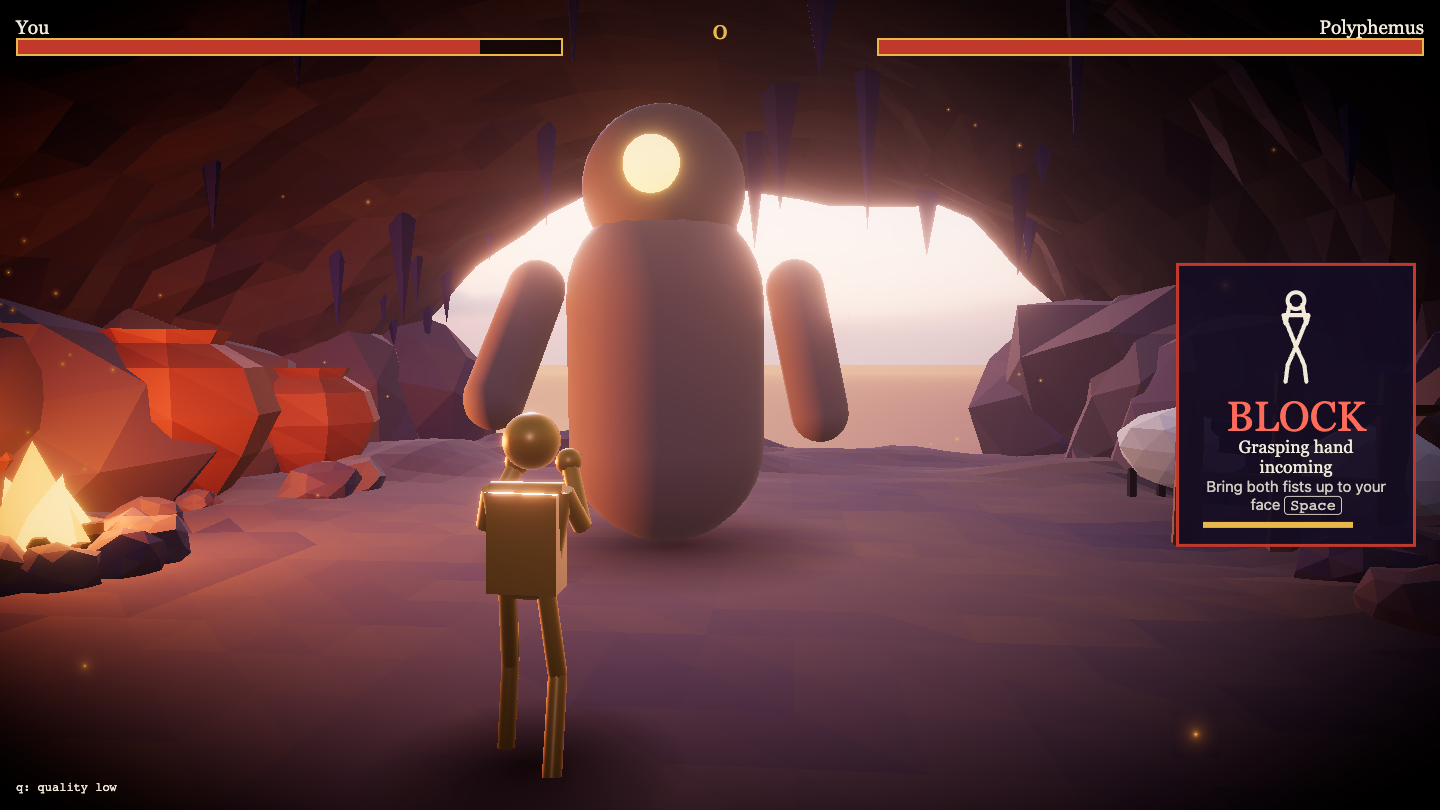
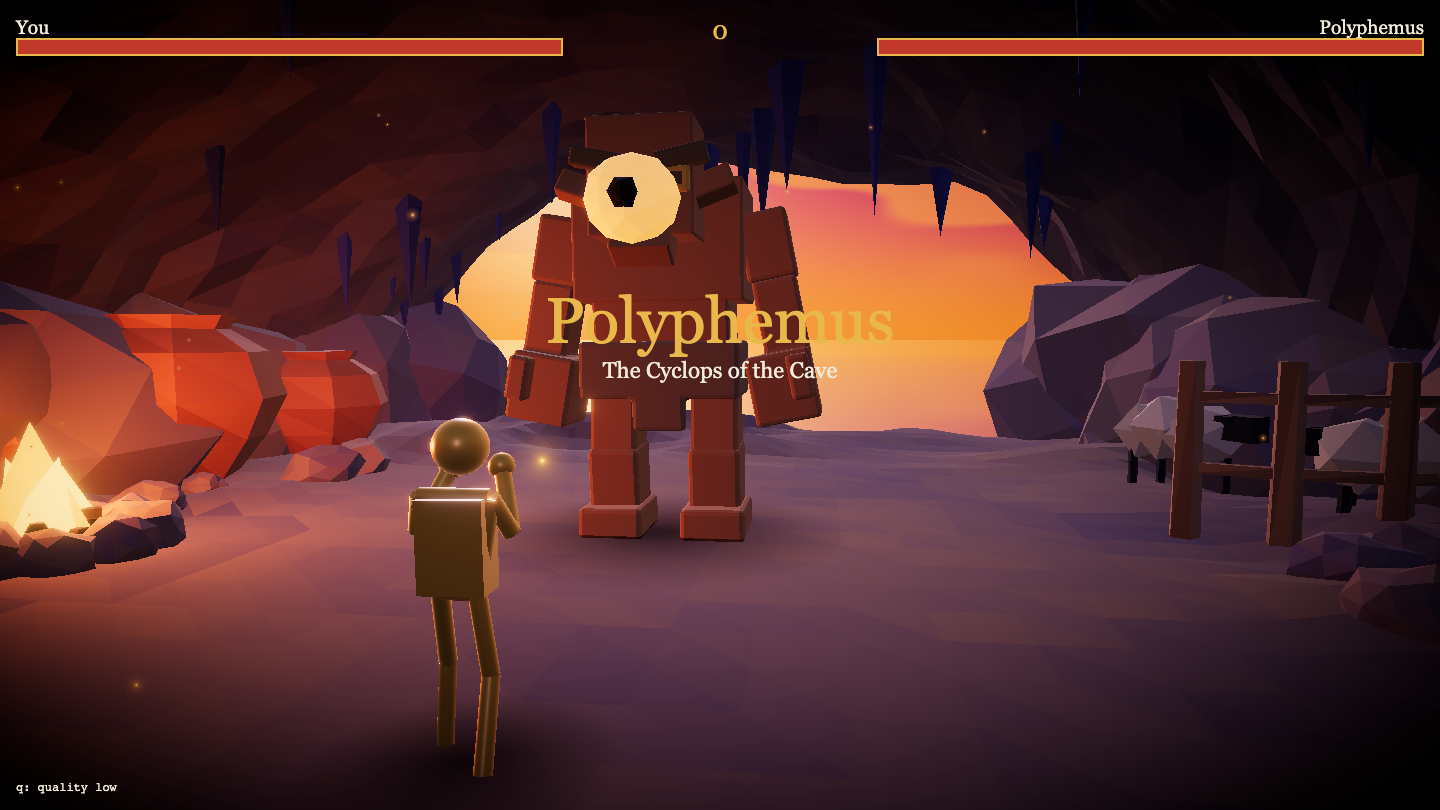
Cave mouth: sunset sky and sea, earthy sheep, higher stalactite clearance
The HDRI sky blew out to white. It is now a graded dusk dome that the sea also reflects, with the painted sun low enough to show through the mouth. Sheep were pale blobs; they are now earth-toned lumps with dark heads. Stalactites clear 7 m so the giant's raised club never meets them. Bloom threshold went to 1.0 so the bright sky stays put. Screenshots retaken with the giant model.

diff --git a/src/render/arena/cave/Sky.tsx b/src/render/arena/cave/Sky.tsx
@@ -1,0 +1,59 @@
+// (Colours here are linear: the composer encodes to sRGB at the end, so they look darker than they read.)
+// The dusk sky as a graded dome, not the raw HDRI: the HDRI's sun is thousands of times brighter than its sky, so
+// any exposure that keeps the sun from clipping also drowns the colour. Here the gradient (orange at the horizon,
+// rose, then violet overhead), a few long cloud bars lit from below and the sun are all set by hand. The sea
+// samples the same `skyColor` for its reflection, so the horizon line is seamless.
+import { useMemo } from "react";
+import { BackSide, Vector3 } from "three";
+import { SUN } from "./mouthLayout";
+
+export const SKY_GLSL = /* glsl */ `
+float skyHash(vec2 p) { return fract(sin(dot(p, vec2(127.1, 311.7))) * 43758.5453); }
+float skyNoise(vec2 p) {
+  vec2 i = floor(p), f = fract(p);
+  f = f * f * (3.0 - 2.0 * f);
+  return mix(mix(skyHash(i), skyHash(i + vec2(1.0, 0.0)), f.x), mix(skyHash(i + vec2(0.0, 1.0)), skyHash(i + vec2(1.0, 1.0)), f.x), f.y);
+}
+vec3 skyColor(vec3 d, vec3 sun) {
+  float h = max(d.y, 0.0);
+  vec3 horizon = vec3(0.9, 0.17, 0.01);
+  vec3 rose = vec3(0.45, 0.03, 0.13);
+  vec3 top = vec3(0.03, 0.012, 0.17);
+  vec3 c = mix(horizon, rose, smoothstep(0.0, 0.2, h));
+  c = mix(c, top, smoothstep(0.12, 0.8, h));
+  float s = max(dot(d, sun), 0.0);
+  // Long cloud bars: stretched noise along the horizon, bright on the sunward side, dark violet on the far side.
+  float az = atan(d.x, -d.z);
+  float bars = smoothstep(0.52, 0.72, skyNoise(vec2(az * 5.0, h * 26.0)) * skyNoise(vec2(az * 2.0 + 4.0, h * 7.0)) * 1.9)
+    * smoothstep(0.02, 0.1, h) * (1.0 - smoothstep(0.3, 0.5, h));
+  vec3 cloud = mix(vec3(0.07, 0.01, 0.07), vec3(1.0, 0.21, 0.05), pow(s, 0.7));
+  c = mix(c, cloud, bars * 0.75);
+  c += vec3(1.0, 0.21, 0.03) * pow(s, 14.0) * 0.6 + vec3(1.0, 0.48, 0.13) * pow(s, 120.0) * 1.2;
+  c += vec3(1.0, 0.8, 0.45) * smoothstep(0.9994, 0.9998, s) * 1.6;
+  return c;
+}`;
+
+const VERTEX = /* glsl */ `
+varying vec3 vDir;
+void main() {
+  vDir = position;
+  gl_Position = projectionMatrix * viewMatrix * vec4(position + cameraPosition, 1.0);
+  gl_Position.z = gl_Position.w * 0.9999;
+}`;
+
+const FRAGMENT = /* glsl */ `
+uniform vec3 uSun;
+varying vec3 vDir;
+${SKY_GLSL}
+void main() { gl_FragColor = vec4(skyColor(normalize(vDir), uSun), 1.0); }`;
+
+export function Sky() {
+  const uniforms = useMemo(() => ({ uSun: { value: new Vector3(...SUN.visual).normalize() } }), []);
+  // The vertex shader pins the dome to the camera, so it must never be culled.
+  return (
+    <mesh renderOrder={-10} frustumCulled={false}>
+      <sphereGeometry args={[100, 32, 16]} />
+      <shaderMaterial vertexShader={VERTEX} fragmentShader={FRAGMENT} uniforms={uniforms} side={BackSide} depthWrite={false} depthTest={false} fog={false} />
+    </mesh>
+  );
+}

diff --git a/src/render/arena/cave/solids.ts b/src/render/arena/cave/solids.ts
@@ -150,14 +150,19 @@ export function floorGeometry(): BufferGeometry {
 
 function sheepPart(parts: BufferGeometry[], piece: Piece): void {
   const [x, , z] = piece.position;
-  const wool = new Color("#f2e6c8"), shade = new Color("#b49a78"), dark = new Color("#3b3030");
+  // Earth-toned wool, a dark face and legs: pale wool just clips to white under the low orange sun.
+  const wool = new Color("#b5a088"), shade = new Color("#6e5e54"), dark = new Color("#2a2224");
   const at = (px: number, py: number, pz: number): Matrix4 =>
-    new Matrix4().makeTranslation(x, 0, z).multiply(new Matrix4().makeRotationY(piece.yaw)).multiply(new Matrix4().makeScale(1.4, 1.4, 1.4)).multiply(new Matrix4().makeTranslation(px, py, pz));
-  const body = jitter(new IcosahedronGeometry(0.5, 1), 0.12, x + z).applyMatrix4(at(0, 0.62, 0).multiply(new Matrix4().makeScale(0.95, 0.8, 1.35)));
-  parts.push(paint(body, shade, wool, (_x, y, _z, i) => 0.5 + y * 0.3 + noise2(i, 4) * 0.2));
-  parts.push(paint(new BoxGeometry(0.26, 0.3, 0.36).applyMatrix4(at(0, 0.8, 0.68)), dark, dark, () => 0));
-  for (const [lx, lz] of [[-0.2, -0.38], [0.2, -0.38], [-0.2, 0.38], [0.2, 0.38]] as const) {
-    parts.push(paint(new CylinderGeometry(0.05, 0.05, 0.38, 5).applyMatrix4(at(lx, 0.19, lz)), dark, dark, () => 0));
+    new Matrix4().makeTranslation(x, 0, z).multiply(new Matrix4().makeRotationY(piece.yaw)).multiply(new Matrix4().makeScale(1.5, 1.5, 1.5)).multiply(new Matrix4().makeTranslation(px, py, pz));
+  // Three overlapping fleece lumps make a lumpy back instead of one egg.
+  for (const [px, py, pz, size] of [[0, 0.62, 0.22, 0.34], [0, 0.66, -0.12, 0.36], [0, 0.6, -0.42, 0.3]] as const) {
+    const lump = jitter(new IcosahedronGeometry(size, 0), 0.14, x + z + pz).applyMatrix4(at(px, py, pz).multiply(new Matrix4().makeScale(1.05, 0.95, 1.1)));
+    parts.push(paint(lump, shade, wool, (_x, y, _z, i) => 0.3 + y * 0.5 + noise2(i, 4) * 0.4));
+  }
+  parts.push(paint(new BoxGeometry(0.2, 0.22, 0.3).applyMatrix4(at(0, 0.72, 0.62)), dark, dark, () => 0));
+  for (const ex of [-0.13, 0.13]) parts.push(paint(new BoxGeometry(0.1, 0.05, 0.14).applyMatrix4(at(ex, 0.8, 0.54)), dark, dark, () => 0));
+  for (const [lx, lz] of [[-0.17, -0.45], [0.17, -0.45], [-0.17, 0.3], [0.17, 0.3]] as const) {
+    parts.push(paint(new CylinderGeometry(0.05, 0.045, 0.42, 5).applyMatrix4(at(lx, 0.21, lz)), dark, dark, () => 0));
   }
 }
 

diff --git a/tests/caveMouth.test.ts b/tests/caveMouth.test.ts
@@ -1,7 +1,7 @@
 // The cave mouth's layout is data: repeatable, and nothing solid stands in the fight or on the camera's path.
 import { expect, test } from "vitest";
 import {
-  CAMERA_ZONE, FIGHT_ZONE, FIRE, MOUTH, boulders, floorPieces, hallRadii, homestead, nearFire, noise2, roofHeight,
+  CAMERA_ZONE, FIGHT_ZONE, FIRE, MOUTH, SUN, boulders, floorPieces, hallRadii, homestead, nearFire, noise2, roofHeight,
   stalactites, touchesZone, wallInset,
 } from "../src/render/arena/cave/mouthLayout";
 import { ARENAS, ARENA_SKIES } from "../src/render/arena/registry";
@@ -42,7 +42,7 @@ test("stalactites hang from the roof and stay out of the fighters' reach", () =>
     const length = tooth.scale[1];
     expect(y + length / 2).toBeGreaterThan(roofHeight(x, z));
     // Over the fight the lowest tip stays above the giant's raised arm.
-    if (touchesZone(FIGHT_ZONE, x, z, 0.1)) expect(y - length / 2).toBeGreaterThan(5);
+    if (touchesZone(FIGHT_ZONE, x, z, 0.1)) expect(y - length / 2).toBeGreaterThan(6.9);
   }
 });
 
@@ -67,4 +67,17 @@ test("Polyphemus fights in the cave mouth at dusk, with the old cave kept as its
   expect(ARENAS.get("polyphemus")).not.toBe(ARENAS.get("polyphemus-classic"));
   expect(ARENA_SKIES.get("polyphemus")?.hdri).toContain("qwantani_dusk_2_puresky_1k.hdr");
   expect(ARENA_SKIES.has("polyphemus-classic")).toBe(false);
+});
+
+test("the painted sun is low enough to be seen through the mouth from the camera, and sits left of the giant", () => {
+  const [x, y, z] = SUN.visual;
+  const camera = { y: 2.2, z: 5.2 };
+  const horizontal = Math.hypot(x, z);
+  const sunSlope = y / horizontal;
+  // Slope from the camera to the top of the opening at the lip.
+  const lipSlope = (MOUTH.lip.ry - camera.y) / (camera.z - MOUTH.lipZ);
+  expect(sunSlope).toBeLessThan(lipSlope);
+  expect(sunSlope).toBeGreaterThan(0.05);
+  expect(x).toBeLessThan(0);
+  expect(Math.hypot(...SUN.visual)).toBeCloseTo(1, 1);
 });

diff --git a/src/render/arena/cave/Sea.tsx b/src/render/arena/cave/Sea.tsx
@@ -6,6 +6,7 @@ import type { ShaderMaterial } from "three";
 import { Color, DoubleSide, Vector3 } from "three";
 import { useQualityLevel } from "../../quality";
 import { MOUTH, SUN } from "./mouthLayout";
+import { SKY_GLSL } from "./Sky";
 
 const VERTEX = /* glsl */ `
 varying vec3 vWorld;
@@ -20,10 +21,9 @@ uniform float uTime;
 uniform float uRipples;
 uniform vec3 uSun;
 uniform vec3 uNear;
-uniform vec3 uFar;
 uniform vec3 uGlow;
 varying vec3 vWorld;
-
+${SKY_GLSL}
 float hash(vec2 p) { return fract(sin(dot(p, vec2(127.1, 311.7))) * 43758.5453); }
 
 void main() {
@@ -40,7 +40,8 @@ void main() {
   float glitter = pow(sunDot, 90.0) * 2.4 + pow(sunDot, 10.0) * 0.5;
   float fresnel = pow(1.0 - max(view.y, 0.0), 3.0);
   float haze = smoothstep(30.0, 520.0, dist);
-  vec3 color = mix(uNear, uFar, clamp(fresnel * 0.55 + haze, 0.0, 1.0));
+  // The sea is a dark mirror: deep violet underfoot, the sunset sky itself toward the horizon.
+  vec3 color = mix(uNear, skyColor(mirrored, uSun), clamp(fresnel * 0.8 + haze * 0.6 + 0.08, 0.0, 1.0));
   color += uGlow * glitter;
   gl_FragColor = vec4(color, 1.0);
 }`;
@@ -51,9 +52,8 @@ export function Sea() {
     () => ({
       uTime: { value: 0 },
       uRipples: { value: 1 },
-      uSun: { value: new Vector3(...SUN.dir).normalize() },
+      uSun: { value: new Vector3(...SUN.visual).normalize() },
       uNear: { value: new Color("#2b2f6a") },
-      uFar: { value: new Color("#e69a80") },
       uGlow: { value: new Color("#ffb066") },
     }),
     [],

diff --git a/src/render/arena/cave/mouthLayout.ts b/src/render/arena/cave/mouthLayout.ts
@@ -9,6 +9,9 @@ export const SUN = {
   dir: [-0.29, 0.342, -0.894] as Vec3,
   /** Rotation that parks the HDRI's own sun (12 degrees up) in the same direction. */
   skyYaw: 2.449,
+  /** Where the painted sun sits, lower than the light so the camera sees it through the mouth (the light's own
+   *  direction is higher so its shafts reach the floor). The sea's glitter path points at this one. */
+  visual: [-0.3, 0.2, -0.93] as Vec3,
 } as const;
 
 export const MOUTH = {
@@ -143,6 +146,9 @@ export function boulders(seed = 5): Piece[] {
   );
 }
 
+/** Highest point the giant's raised club or arms reach over the fight, with a margin. */
+const REACH = 7;
+
 /** Stone teeth hanging from the roof, thickest around the mouth where the camera sees them against the sky. */
 export function stalactites(seed = 11): Piece[] {
   const random = mulberry(seed);
@@ -160,8 +166,8 @@ export function stalactites(seed = 11): Piece[] {
       footprint: radius,
     });
   }
-  // Over the fight the lowest tip stays above the giant's raised arm.
-  return out.filter((tooth) => !touchesZone(FIGHT_ZONE, tooth.position[0], tooth.position[2], 0.1) || tooth.position[1] - tooth.scale[1] / 2 > 5.4);
+  // Over the fight the lowest tip stays above the giant's raised club.
+  return out.filter((tooth) => !touchesZone(FIGHT_ZONE, tooth.position[0], tooth.position[2], 0.1) || tooth.position[1] - tooth.scale[1] / 2 > REACH);
 }
 
 /** The shepherd's pen on the right, sheep inside it, big clay jars along the left wall. */

diff --git a/src/render/arena/arenas/CaveMouth.tsx b/src/render/arena/arenas/CaveMouth.tsx
@@ -8,6 +8,7 @@ import { SUN } from "../cave/mouthLayout";
 import { Blobs } from "../cave/Blob";
 import { Fire } from "../cave/Fire";
 import { Sea } from "../cave/Sea";
+import { Sky } from "../cave/Sky";
 import { LightShafts } from "../cave/Shafts";
 import { floorGeometry, homesteadGeometry, rockGeometry, shellGeometry } from "../cave/solids";
 import { useQualityLevel } from "../../quality";
@@ -61,6 +62,7 @@ function CaveMouth() {
         <meshStandardMaterial vertexColors flatShading roughness={0.9} />
       </mesh>
 
+      <Sky />
       <Sea />
       <Fire />
       <Blobs />

diff --git a/src/render/Atmosphere.tsx b/src/render/Atmosphere.tsx
@@ -16,9 +16,6 @@ export function Atmosphere({ sky }: { sky?: { readonly hdri: string; readonly ya
         <Suspense fallback={null}>
           <Environment
             files={sky?.hdri ?? HDRI}
-            background={sky !== undefined}
-            backgroundIntensity={0.42}
-            backgroundRotation={[0, sky?.yaw ?? 0, 0]}
             environmentRotation={[0, sky?.yaw ?? 0, 0]}
             environmentIntensity={sky ? 0.3 : 0.6}
           />

diff --git a/src/render/Effects.tsx b/src/render/Effects.tsx
@@ -23,7 +23,7 @@ export function Effects() {
       <Bloom
         ref={bloom}
         mipmapBlur
-        luminanceThreshold={0.85}
+        luminanceThreshold={1.0}
         luminanceSmoothing={0.2}
         intensity={BLOOM_BASE}
         resolutionScale={high ? 1 : 0.5}

diff --git a/docs/models.md b/docs/models.md
@@ -96,20 +96,22 @@ Every model or set piece brought into the fight, looked at in the running Polyph
 
 | Name | Source | Licence | Size | Target height / scale / rotation | Clips used | Verdict | Why |
 |---|---|---|---|---|---|---|---|
-| Qwantani Dusk 2 Puresky HDRI | https://polyhaven.com/a/qwantani_dusk_2_puresky | CC0 | 1.1 MB (1K .hdr) | sky background intensity 0.42, yaw 2.449 rad so its sun sits left of the giant | none | kept | Gives the dusk sky through the mouth. Stacked with the sun light it first blew out; intensity was cut until the sky reads orange without washing the cave. |
-| Cave shell (roof, walls) | built in code, `cave/solids.ts` | ours | 1 merged mesh | hall 12.5 x 9.5 m, pinches to 11.5 x 8.6 m at the lip, roof stays above 8 m over the camera | none | resized | First pass left stalactite tips inside the giant's reach; the roof and teeth were raised so nothing hangs below 5.4 m over the fight. |
+| Dusk sky dome | built in code, `cave/Sky.tsx` | ours | 1 sphere, 1 shader | graded dome pinned to the camera; sun painted at `SUN.visual` (11 degrees up) so it shows through the mouth | none | replaced the HDRI background | The Qwantani Dusk HDRI background blew out to white at any exposure that kept its sun, and was the reason the sky never read as sunset. The dome is hand-graded (orange horizon, rose, violet overhead, cloud bars, sun glow) in linear colour. The HDRI is kept only for reflections at intensity 0.3. Bloom threshold went from 0.85 to 1.0 so the sky no longer bleeds. |
+| Cave shell (roof, walls) | built in code, `cave/solids.ts` | ours | 1 merged mesh | hall 12.5 x 9.5 m, pinches to 11.5 x 8.6 m at the lip, roof stays above 8 m over the camera | none | resized | First pass left stalactite tips inside the giant's reach; the roof and teeth were raised so nothing hangs below 7 m over the fight. |
 | Floor and ledge | built in code | ours | 1 merged mesh | flat inside the fight zone, ledge slopes to the sea at y=-1.5 | none | resized | Was rendered white because the winding faced down; flipped. Hero and giant both stand on it, with contact shadows. |
 | Boulders (about 60 pieces) | built in code, `mouthLayout.ts` | ours | merged | 0.25 m stones up to 3 m wall boulders, none inside the fight or camera zones (unit test) | none | kept | Faceted flat shading matches the low-poly look. |
-| Stalactites (about 38) | built in code | ours | merged | 1.2 to 3.8 m long, hung from the roof | none | resized | Two tips hung low over the fight; filtered out by the layout and covered by a test. |
+| Stalactites (about 38) | built in code | ours | merged | 1.2 to 3.8 m long, hung from the roof | none | resized | Nothing hangs below 7 m over the fight now (the raised club and arms reach about 6.5 m); covered by a test. |
 | Fire pit, flames, embers | built in code, `cave/Fire.tsx` | ours | cones + point light | pit at x=-6.3, z=-2.4 | flicker only | resized | At x=-5.6 it touched the fight zone; moved out. |
 | Clay jars (5) | built in code (lathe) | ours | merged | 1.8 to 2.6 m tall, so they read as giant's jars next to the 1.8 m hero | none | resized | First version was hero sized and looked like pots; scaled up to giant scale. |
 | Shepherd pen: posts and rails | built in code | ours | merged | posts 2 m, rails at 0.8 and 1.6 m | none | resized | Was knee high; raised so the fence reads against a 5 m giant. |
-| Sheep (4) | built in code | ours | merged | scaled x1.4 | none | kept, weak | Still read as pale blobs at distance. Acceptable as set dressing, would be the first thing to redo. |
-| Sea | built in code shader, `cave/Sea.tsx` | ours | 1 quad | y=-1.5, runs to the horizon | shader time | resized | Checker pattern showed at the horizon; ripple tilt softened and faded with distance. Low quality drops the ripples. |
+| Sheep (4) | built in code | ours | merged | scaled x1.5, three fleece lumps, dark head and legs | none | redone, still small | The first sheep were pale cream and clipped to white blobs under the orange sun. Now earth-toned wool with a dark face; they read as grey woolly animals behind the fence, though at the screen edge they are still small. |
+| Sea | built in code shader, `cave/Sea.tsx` | ours | 1 quad | y=-1.5, runs to the horizon, reflects the same sky function as the dome | shader time | resized | Now mirrors the dusk sky so the horizon is seamless. Earlier: checker pattern showed at the horizon; ripple tilt softened and faded with distance. Low quality drops the ripples. |
 | Light shafts, dust motes | built in code | ours | 6 beams | high only | pulse | kept | Gone on low as required. |
-| Hero (boxer) | existing in repo, not mine | n/a | n/a | about 1.8 m | existing | not changed | Seen in every shot: stands on the floor, faces the giant, scale right. It has no shadow caster, only the blob. |
-| Polyphemus | existing in repo, not mine | n/a | n/a | about 5 m | existing | not changed | Seen in every shot: the hand-built capsule model at the time of testing (a GLB giant candidate is logged above, and was not in this run), grounded, facing the camera, windup and fall animations play. Owned by another agent; a better model would lift the scene most. |
+| Hero (boxer, knight) | existing in repo, not mine | n/a | n/a | about 1.8 m | existing | not changed | Boxer seen in every shot, knight (`?model=giant&hero=knight`) at idle only (`cave-mouth-knight.png`). Both stand on the floor, face the giant, scale right. Nothing sits between the camera and the hero. |
+| Polyphemus | existing in repo, not mine | n/a | n/a | about 5 m | existing | not changed | Seen with `?model=giant` (GLB) through idle, every windup (club left/right, grab, boulder), strikes, Blinded, finisher, death and loss. Head and raised club clear the roof (7 m). The giant looks pale and bright against the sunset during the finisher and fall; that is its material, owned by another agent. |
 
 Not brought in and not tested in the fight: the Poly Haven photoscans (boulder_01, stone_fire_pit, antique_ceramic_vase_01, rock_face_01, namaqualand_cliff_02, mountainside, marble_bust) and the small_harbour_sunset HDRI. Photo textures on large shapes break the flat-shaded look, so the set pieces are built in code instead.
 
-Cost at high quality: about 172 draw calls and 30.9k triangles peak per frame, including the shadow pass and post effects. Low quality: 54 calls and 17.3k triangles. Median frame 16.7 ms on both.
+Cost: measured before the sky change at about 172 draw calls and 30.9k triangles at high, 54 calls and 17.3k at low. The dome adds one draw call and the HDRI background is gone, so it should be about the same; not re-measured.
+
+Not tested: a low-quality finisher shot, the knight past idle, close-range sheep, the live webcam path. The Bloom threshold change (0.85 to 1.0) is shared by every arena and was only looked at here. The 404 console errors seen in every run predate this change and were not traced.
